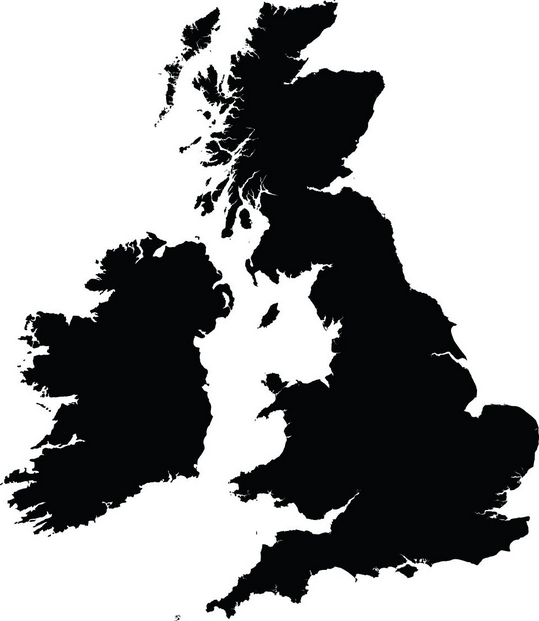
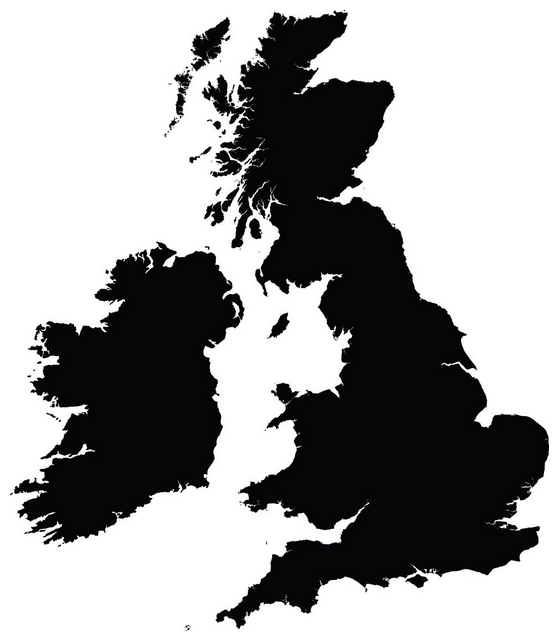
Change map images to have 10px border

diff --git a/_posts/2019-07-23-putting-svgs-on-the-map.md b/_posts/2019-07-23-putting-svgs-on-the-map.md
@@ -64,7 +64,7 @@ Here's the finished result:
 </div>
 <div style="padding:1em 0 1em 0;">
     <label for="rmax">Max radius:</label>
-    <input id="rmax" type="range" step="0.25" min="5" max="8" value="6"/>
+    <input id="rmax" type="range" step="0.25" min="5" max="8" value="8"/>
     <span style="padding-left:0.5em;" id="rmaxValueDisplay"></span>
 </div>
 <div style="padding-bottom:1em;">
